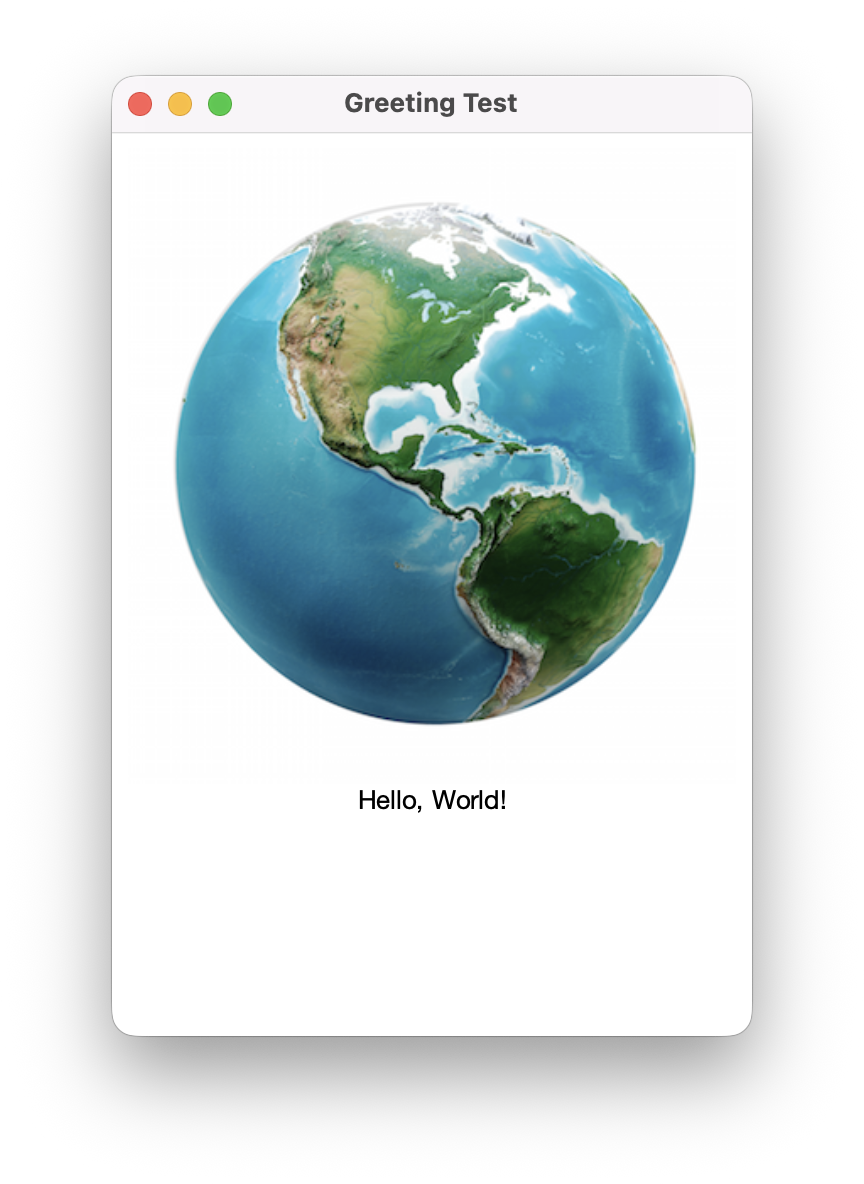
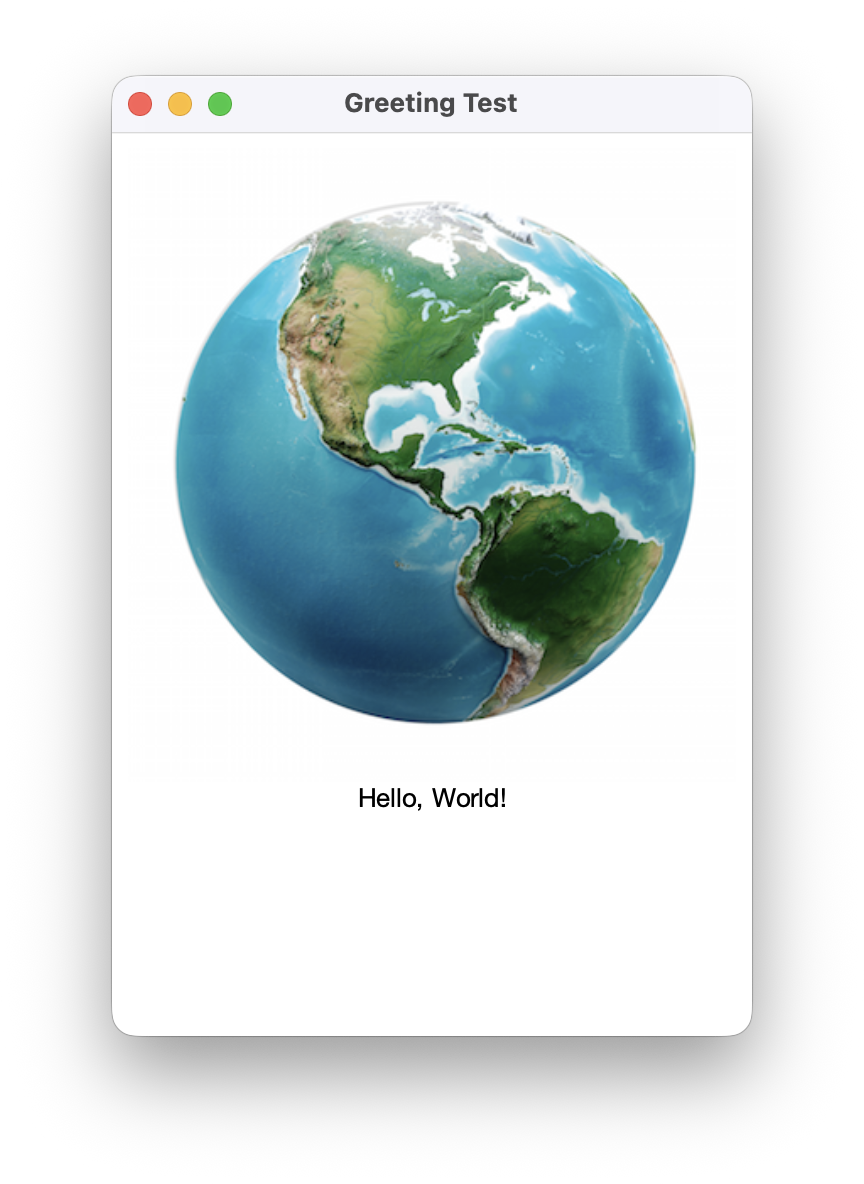
Update README.md.

diff --git a/README.md b/README.md
@@ -193,7 +193,7 @@ The default thickness is 1. Style options include "solid" (the default), "dashed
 </stack-panel>
 ```
 
-<img src="README/border.png" width="227px"/>
+<img src="README/border.png" width="226px"/>
 
 Padding values for multiple sides can be specified in _top_, _left_, _bottom_, _right_ order:
 